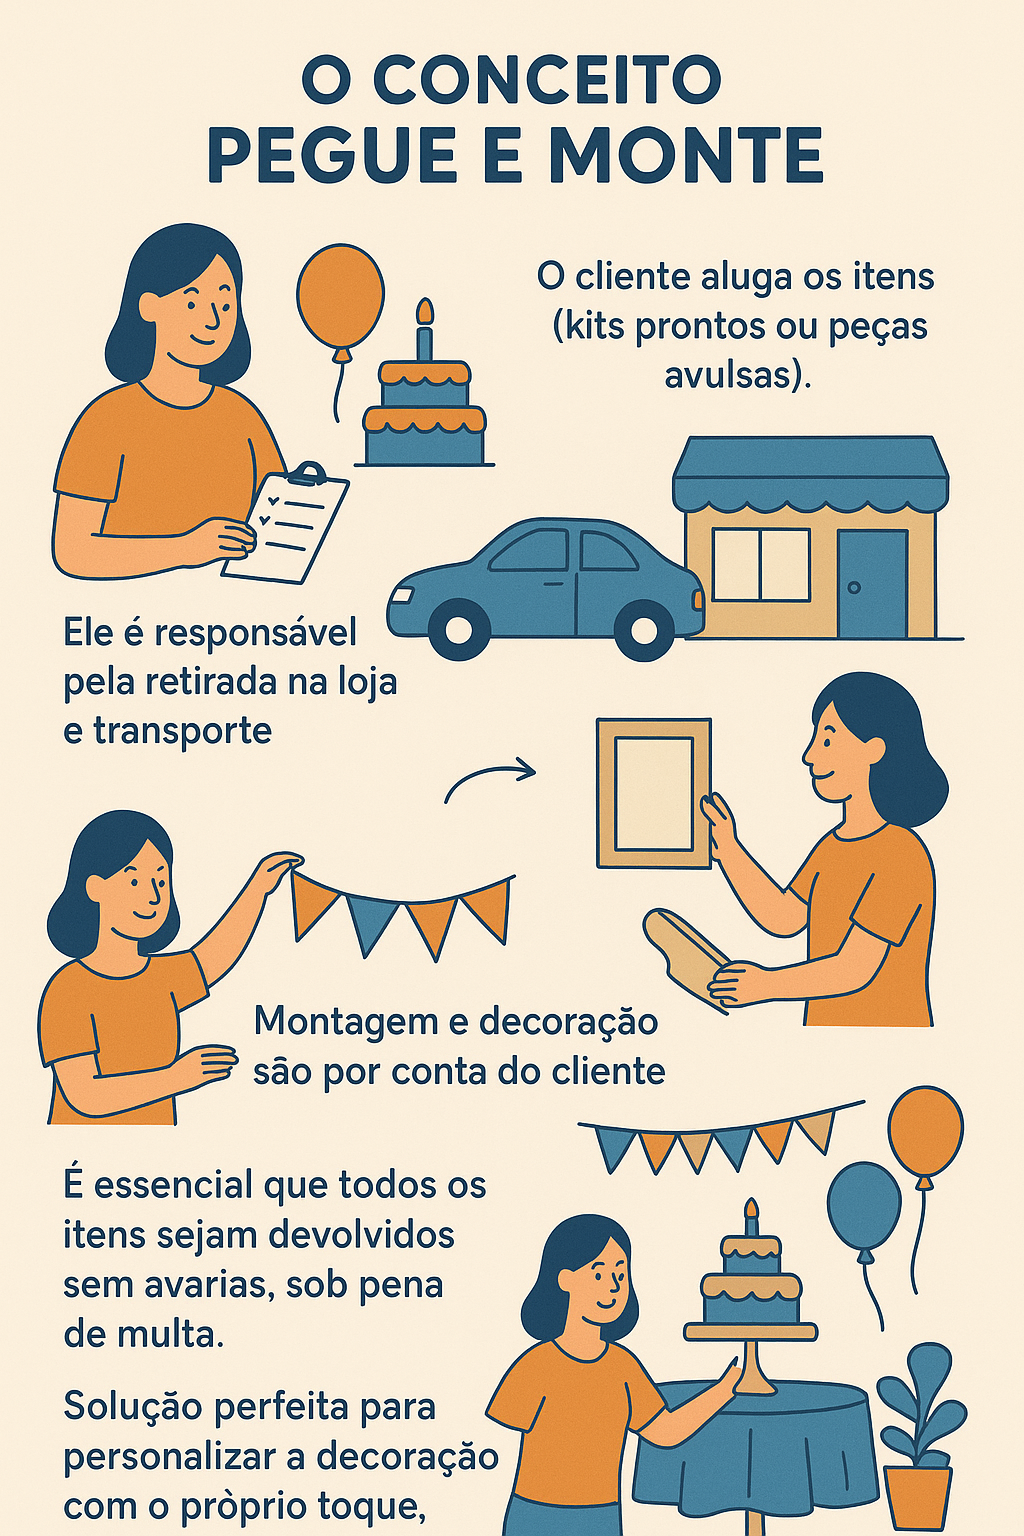
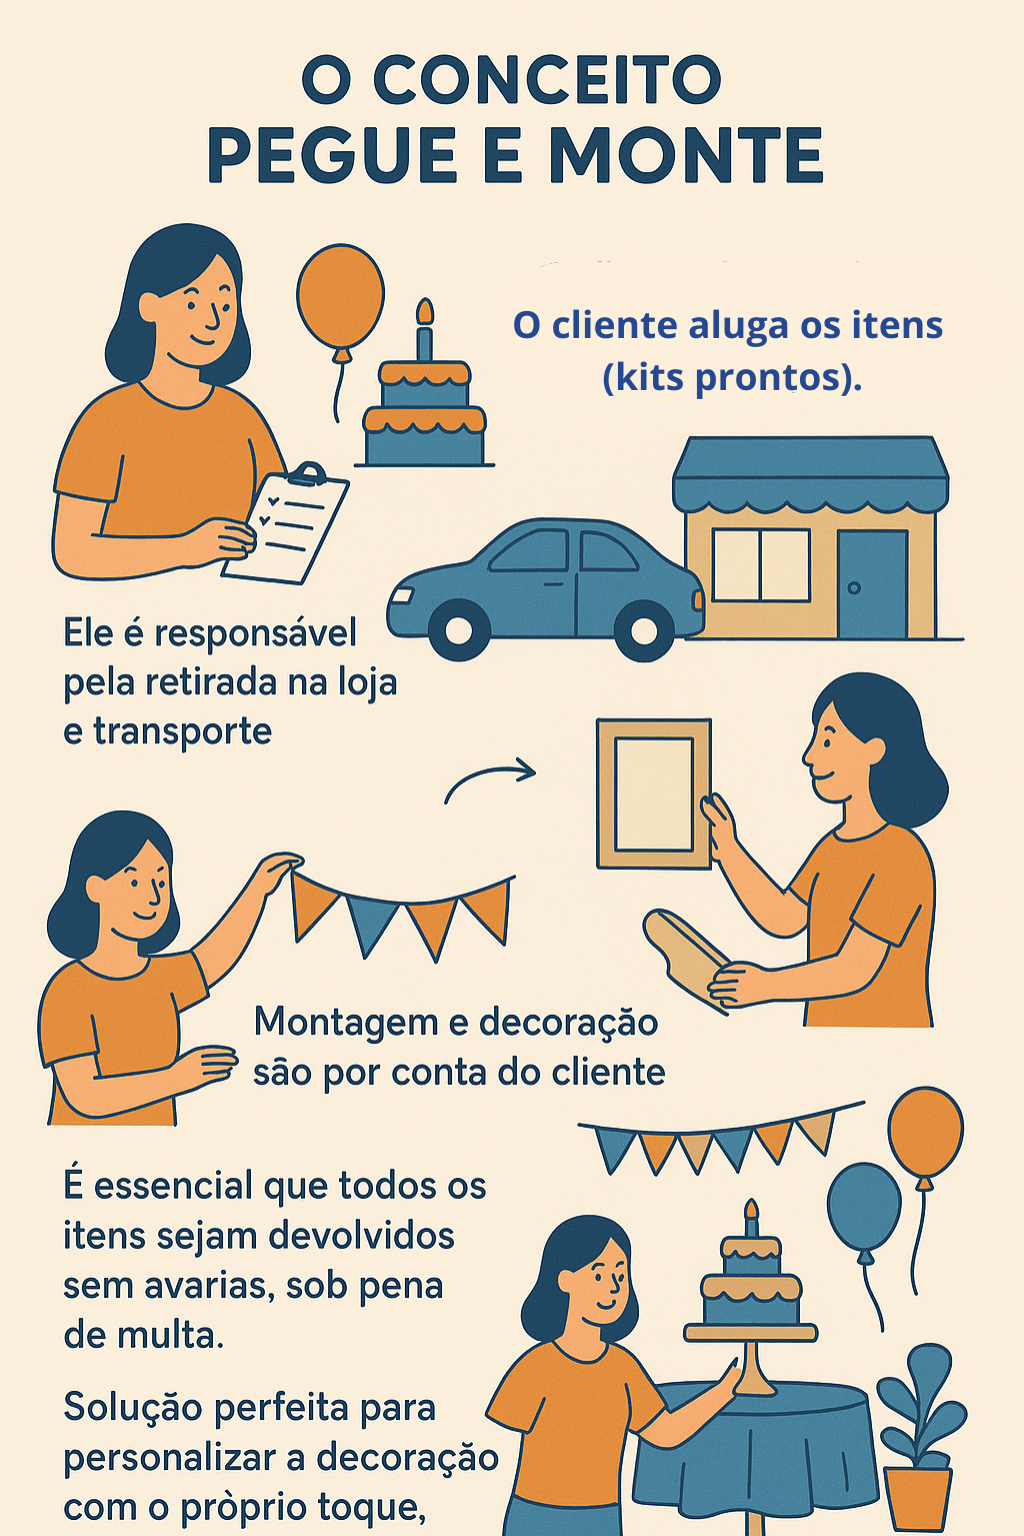
Add files via upload

diff --git a/script.js b/script.js
@@ -13,7 +13,7 @@ const pages = {
             <div class="hero-section animate__animated animate__fadeInDown">
                 <h1>Sua Festa Incrível Começa Aqui!</h1>
                 <p>Aluguel de kits "Pegue e Monte" para tornar seu evento inesquecível com elegância e economia.</p>
-                <a href="#orcamento" class="cta-button" data-page="orcamento">Veja Nossos Kits de Decoração</a>
+                <a href="https://glipearte.github.io/site/#portfolio" class="cta-button" data-page="portfolio">Veja Nossos Kits de Decoração</a>
             </div>
 
             <h2 class="animated-element">✨ Pegue e Monte: Como Funciona?</h2>
@@ -21,7 +21,7 @@ const pages = {
                 <div class="kit-card">
                     <i class="fas fa-box fa-3x" style="color: var(--color-primary);"></i>
                     <h3>1. Alugue</h3>
-                    <p>Escolha o kit ou as peças avulsas ideais em nosso portfólio.</p>
+                    <p>Escolha o kit ideal em nosso portfólio.</p>
                 </div>
                 <div class="kit-card">
                     <i class="fas fa-truck-loading fa-3x" style="color: var(--color-primary);"></i>
@@ -42,12 +42,12 @@ const pages = {
             <div class="about-details">
                 <div class="about-text animated-element">
                     <h2>Nossa Missão</h2>
-                    <p>A <strong>Glipearte Pegue e Monte</strong> nasceu com o objetivo de democratizar a decoração de festas, oferecendo kits e peças de alta qualidade com um custo-benefício imbatível. Acreditamos que todos merecem uma festa linda e memorável, e nosso modelo simplifica esse processo.</p>
+                    <p>A <strong>Glipearte Pegue e Monte</strong> nasceu com o objetivo de democratizar a decoração de festas, oferecendo kits de alta qualidade com um custo-benefício imbatível. Acreditamos que todos merecem uma festa linda e memorável, e nosso modelo simplifica esse processo.</p>
 
                     <h2>O Conceito Pegue e Monte</h2>
                     <p>O conceito é desenhado para a sua autonomia e economia:</p>
                     <ul>
-                        <li><i class="fas fa-hand-holding-box"></i> O cliente <strong>aluga</strong> os itens (kits prontos ou peças avulsas).</li>
+                        <li><i class="fas fa-hand-holding-box"></i> O cliente <strong>aluga</strong> os itens (kits prontos).</li>
                         <li><i class="fas fa-car"></i> Ele é responsável pela <strong>retirada</strong> na loja, <strong>transporte</strong>, <strong>montagem</strong> e <strong>devolução</strong> dos itens.</li>
                         <li><i class="fas fa-shield-alt"></i> É essencial que todos os itens sejam devolvidos <strong>sem avarias</strong>, sob pena de multa.</li>
                     </ul>
@@ -129,7 +129,7 @@ const pages = {
 function generateBudgetTable() {
     return `
         <table class="budget-table animated-element">
-            <caption>Kits Pegue e Monte e Peças Avulsas</caption>
+            <caption>Kits Pegue e Monte</caption>
             <thead>
                 <tr>
                     <th>Item/Kit</th>
@@ -354,5 +354,4 @@ window.addEventListener('DOMContentLoaded', () => {
     const initialPage = window.location.hash ? window.location.hash.substring(1) : 'home';
     history.replaceState({ page: initialPage }, '', `#${initialPage}`);
     renderPage(initialPage);
-
 });

diff --git a/style.css b/style.css
@@ -88,7 +88,7 @@ a:hover {
 }
 
 .logo img {
-    height: 60px; /* Tamanho da Logo */
+    height: 120px; /* Tamanho da Logo */
     transition: transform var(--transition-speed);
 }
 
